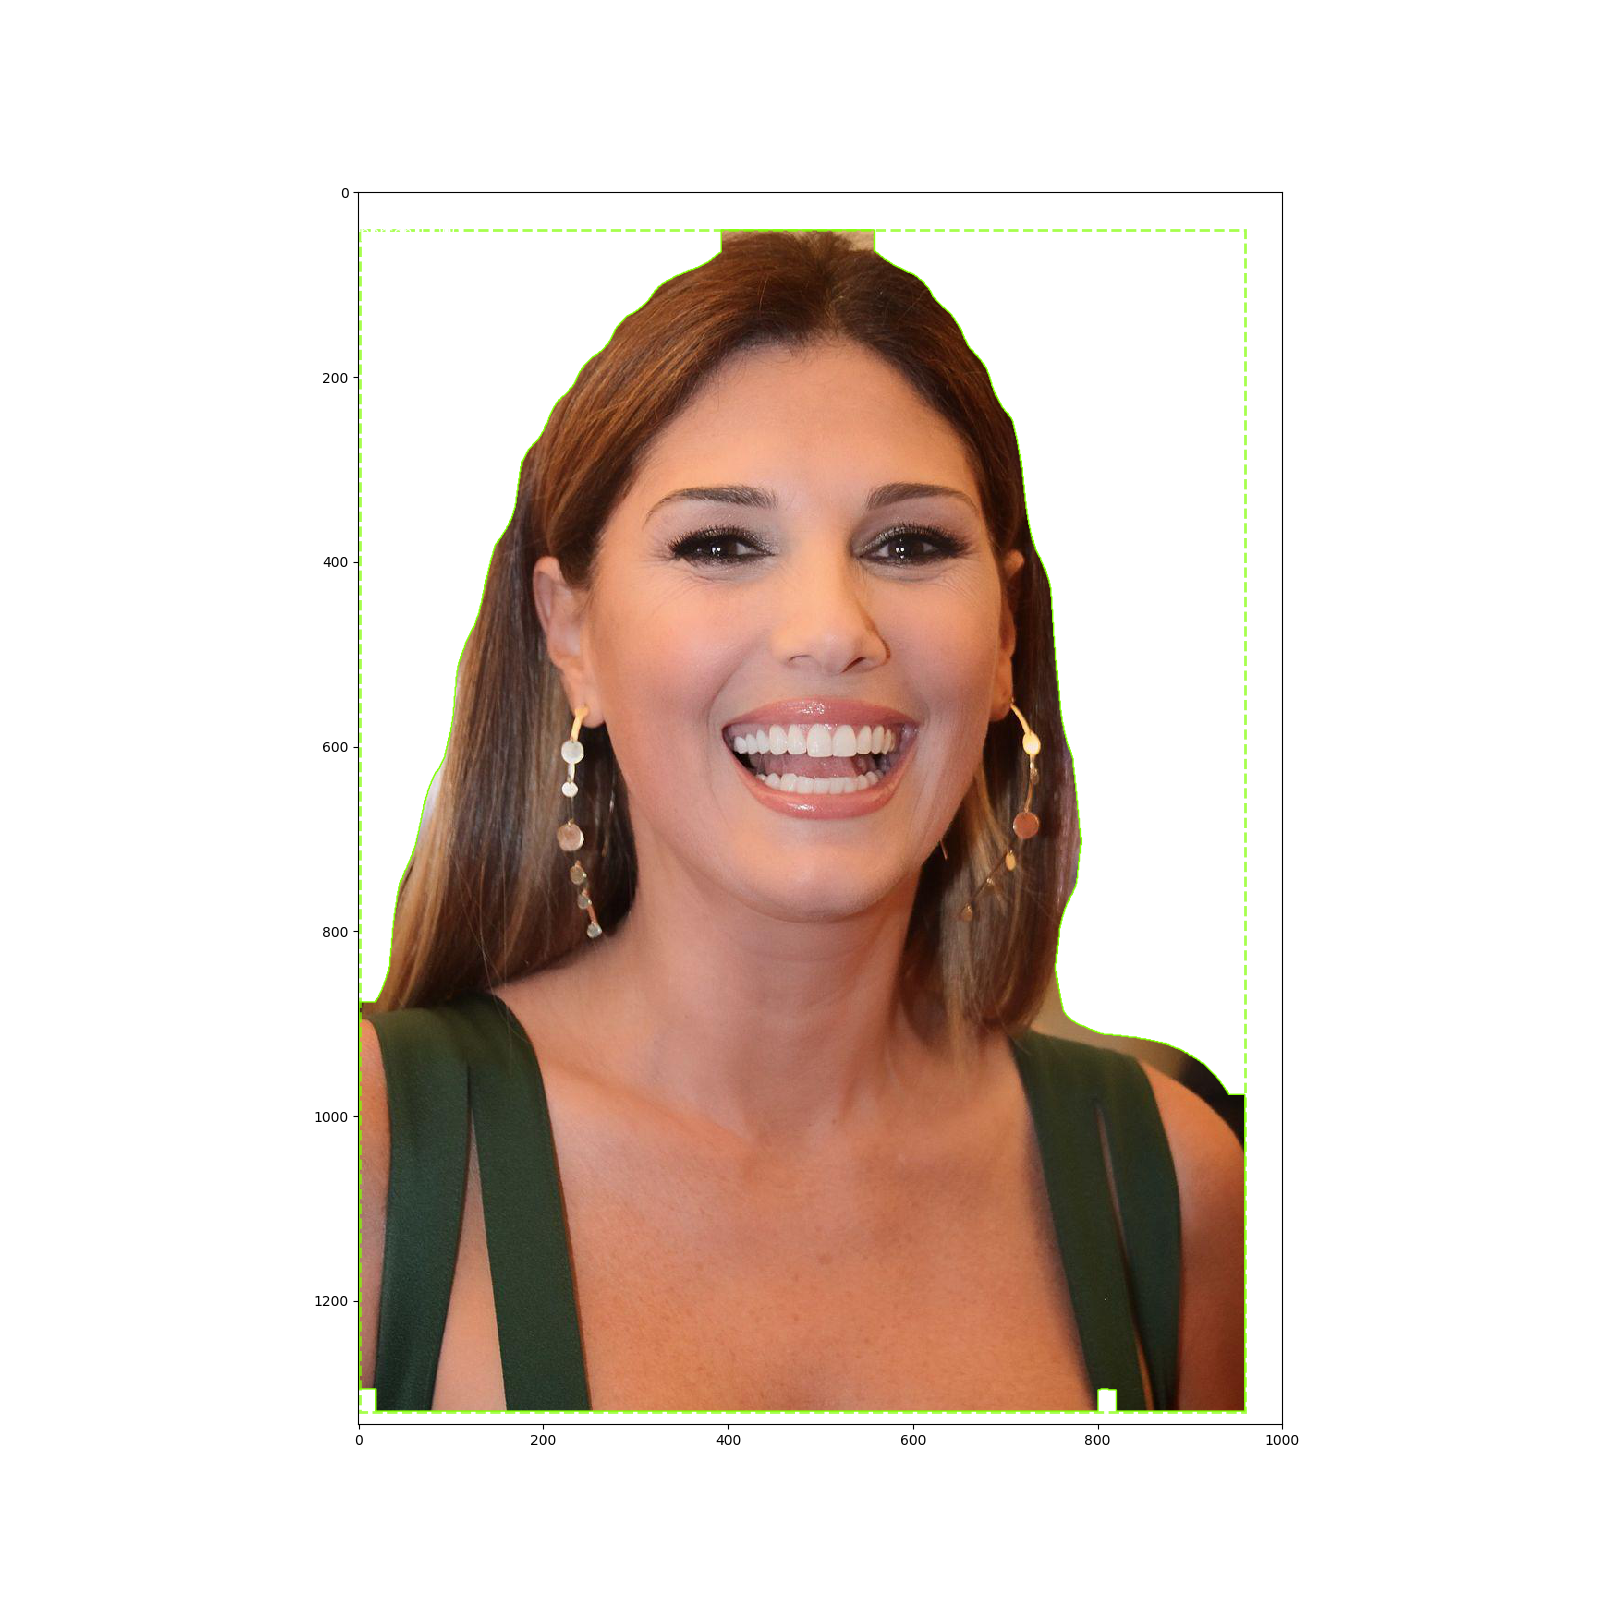
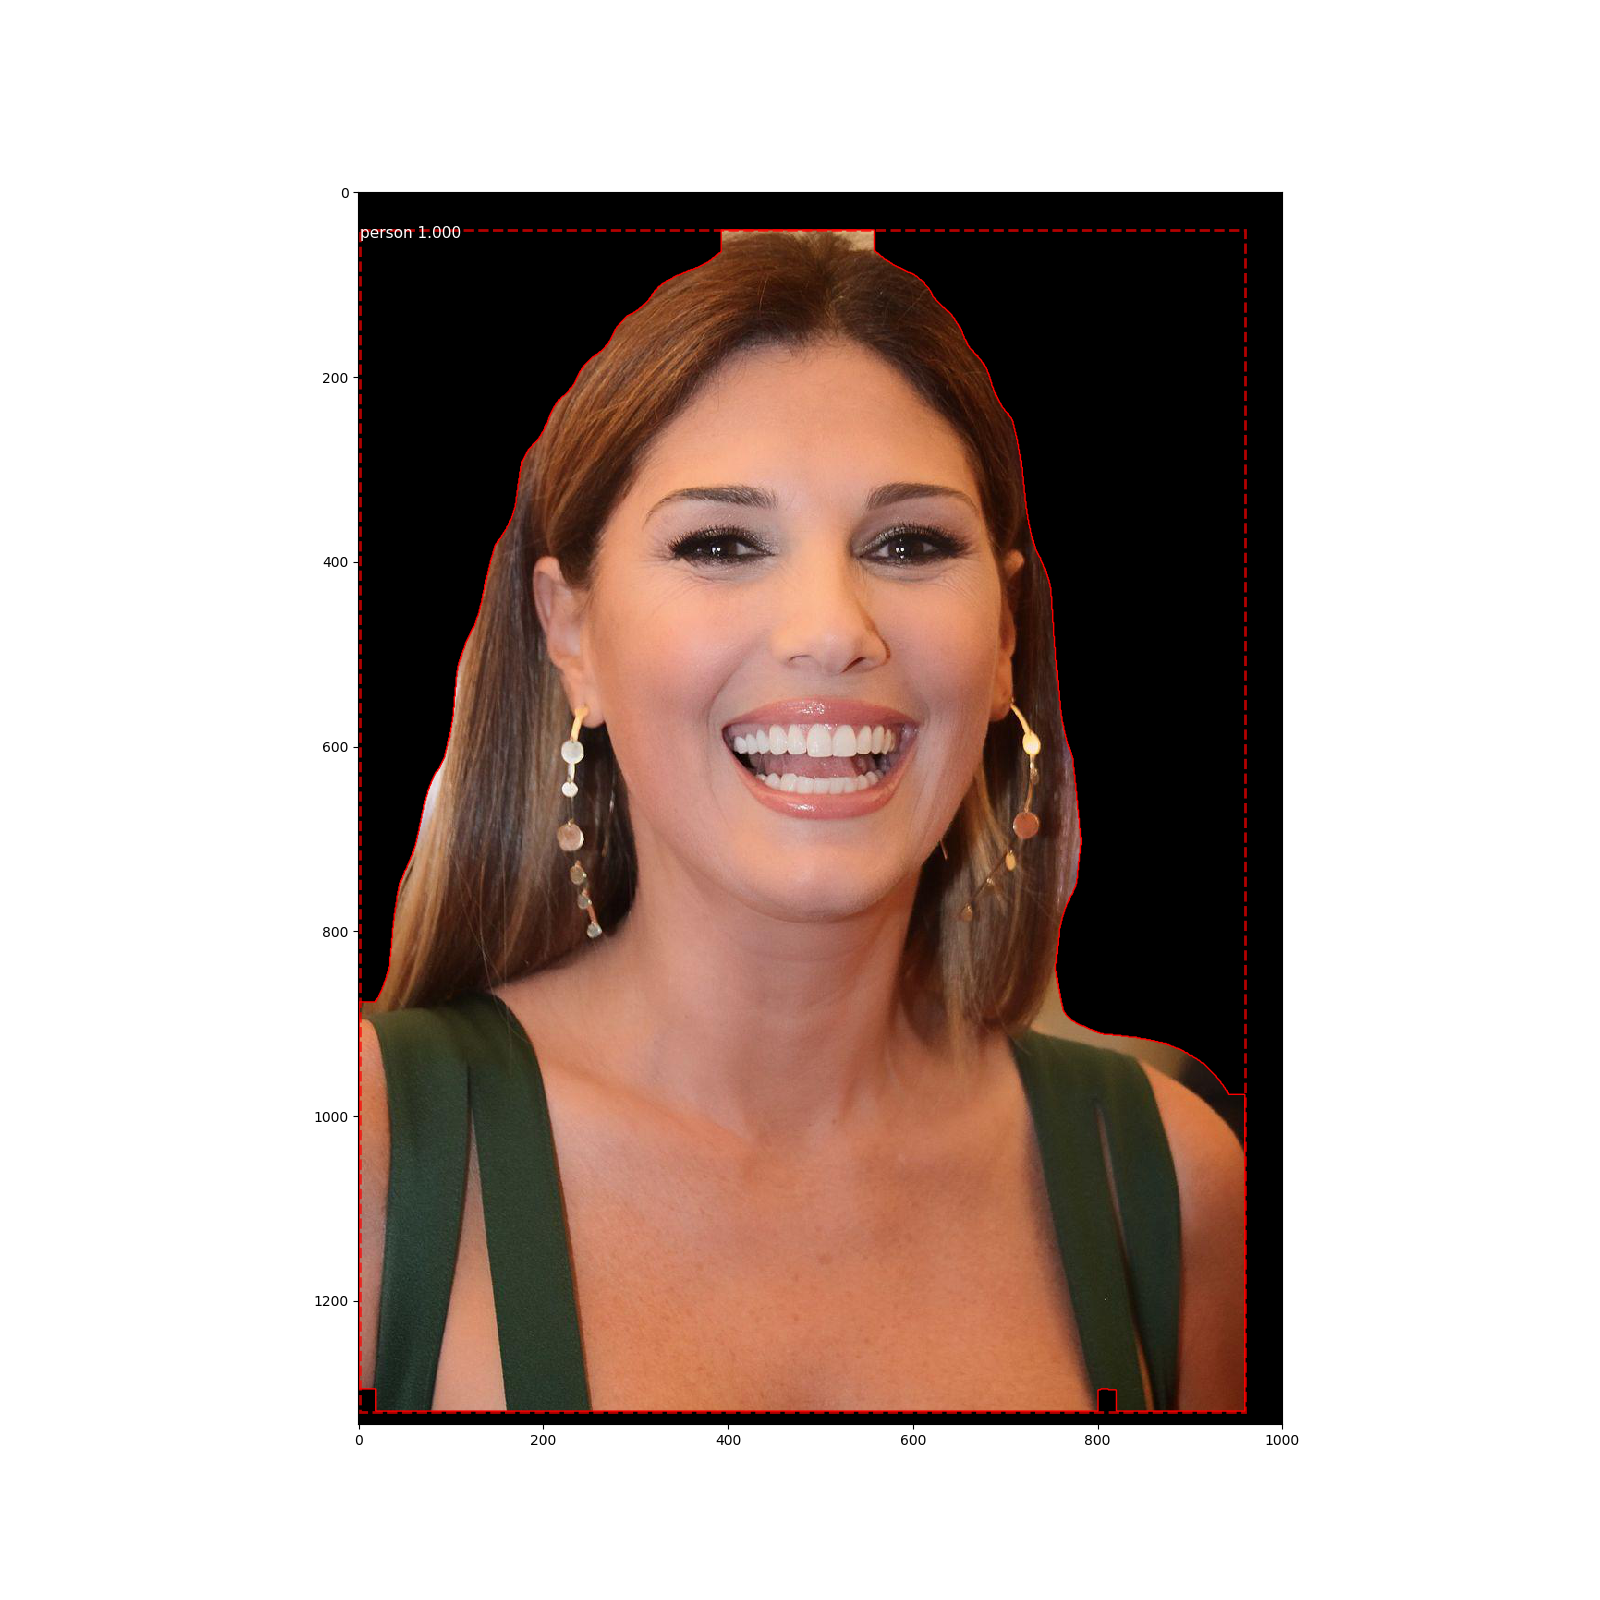
modified:   dbexpos_image.png 	modified:   mask.png 	modified:   plot.png 	modified:   visualize.py

Changed region(s): [[0.2188, 0.0938, 0.8125, 0.9062]]

diff --git a/visualize.py b/visualize.py
@@ -75,7 +75,7 @@ def apply_mask(image, mask, color, alpha=0.5):
     for c in range(3):       
         image[:, :, c] = np.where(mask == 0,
                                   image[:, :, c]
-                                   *0  + 255,
+                                   *0  ,
                                   image[:, :, c])
        
     return image
@@ -111,7 +111,7 @@ def display_instances(image, i, boxes, masks, class_ids, class_names,
     #fig.axis('off')
     #fig.set_label(title)
 
-    masked_image = image.astype(np.uint32).copy()
+    masked_image = image.astype(np.uint64).copy()
 #    for i in range(N): 
     color = colors[i]
 
@@ -150,6 +150,7 @@ def display_instances(image, i, boxes, masks, class_ids, class_names,
         fig.add_patch(p)
     fig.imshow(masked_image.astype(np.uint8))
     f.savefig('plot.png')
+    masked_image = gray3channel(rgb2gray(masked_image/255))
     scipy.misc.toimage(masked_image).save('mask.png')
 
     ROOT_DIR = os.getcwd()
@@ -168,6 +169,17 @@ def screen(img_1,img_2):
     img_2 = img_2/255 	
     img = 1-(1-img_1)*(1-img_2)
     return img
+def gray3channel(img):
+    height,width = img.shape[:2]
+    new_img = np.zeros((height,width,3))
+    for ch in range(3):
+        for xx in range(height):
+            for yy in range(width):
+                new_img[xx,yy,ch] = img[xx,yy]
+    img = new_img
+    return img
+def rgb2gray(img):
+    return np.dot(img[...,:3],[0.2125,0.7154,0.0721])
 def draw_rois(image, rois, refined_rois, mask, class_ids, class_names, limit=10):
     """
     anchors: [n, (y1, x1, y2, x2)] list of anchors in image coordinates.
